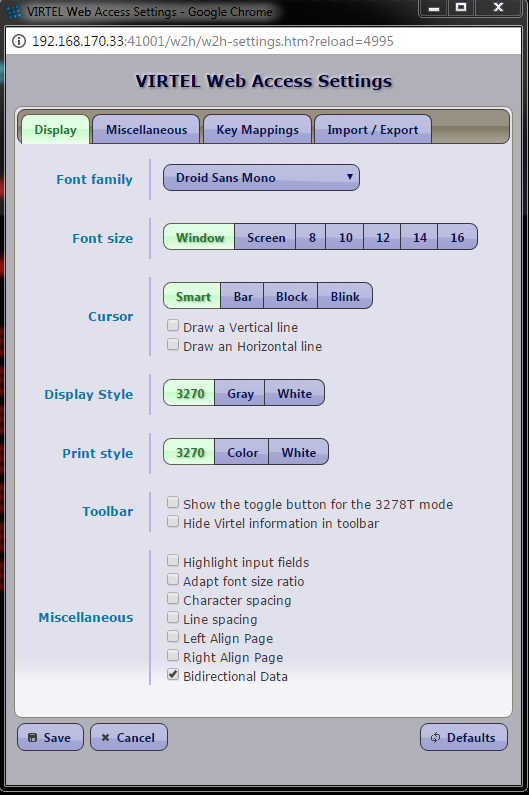
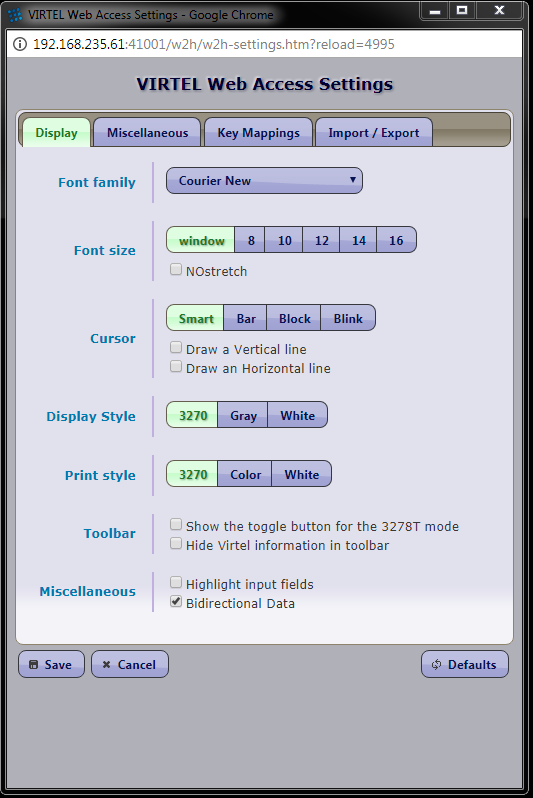
Virtel Documentation Project
Updates

diff --git a/docs/manuals/newsletters/TN201706/TN201706     .rst b/docs/manuals/newsletters/TN201706/TN201706     .rst
@@ -36,15 +36,6 @@ Further details can also be found in the Virtel technical newsletter :ref:`TN201
 Presentation
 ------------
 
-**5447 Option to align W2H page LEFT or CENTER**
-
-New Display Option in the “Miscellaneous” settings page to allow left
-alignment of the W2H page. This may be useful when no monospace font is
-available. Aligning LEFT may give a better appearance to the page as
-compared to the default where each line is centred. When the font is not
-exactly monospace, lines may not have the same length and vertical
-alignments may be lost.
-
 **5453 Add CSS rules for old versions of IE8**
 
 Added CSS rules for older versions of IE where the logo's display codes
@@ -55,40 +46,20 @@ for the new graphics were not displayed with the correct size.
 Help panels can now be customized using the /option/pathToHelp key of
 “option customisation” mode.
 
-**5477 Option to switch R2L or L2R**
-
-A new display option in the miscellaneous settings panel to define how
-text is displayed in the W2H page. The options are “Right to Left” or
-“Left to Right (Default)”.
-
-As an example in Hebrew, locale text support is detected and determined
-by the browser, the browser may try to display lines of text from right
-to left. This may not be what is required. Using this option, the user
-will be able to override the default Locale behaviour and force the
-display of Hebrew from left to right.
-
-**5482 Provide a control to switch "write mode"**
-
-When the 'Bidirectional Data ' option is set, the key combination 'Alt +
-Shift' will switch the writing mode to Between “L2R” and “R2L”:
-
-The indicator '<' will appear on right of the status line. All text
-input (Hebrew or otherwise) will progress from right to left. Tabbing
-into a field will go to the end of the field, not the start. If “R2L”
-input reaches the start of the field, it remains there.
-
-**5481 New “BiDirectional” Option**
+**5481, 5482 New “BiDirectional” Option**
 
 The new BiDirectional option will now trigger the CSS unicodeBidi =
 "bidi-override" style on the Virtel “printReady” HTML Div template. This
 options enables user to have control on how text alignment should be
-set. Right of the page or Left of the Page. This replaces the “Right to
-Left” option of modification 5477.
+set. Right of the page or Left of the Page. 
 
 |image0|
 
 Figure 1 - BiDirectional Data Option
 
+**5490 Disable Long Poll**
+
+To support the i4web AS/400 interface a new option to disable “Long Poll” has been implemented. This can be defined in w2hparm.js or through a setting in the miscellaneous settings panel
 
 **5501 Arabic support - Reverse screen display option.**
 
@@ -109,6 +80,10 @@ Note:-
 ::
  
 	w2hparm.mirrorMode = true
+
+|image3|
+
+Figure 2 - Arabic Support using Right to Left presentation
 
 **5504 continuing="YES" attribute to indicate a split input field**
 
@@ -482,3 +457,4 @@ Bug fixes
 .. |image1| image:: images/media/image2.png
    :width: 6.26806in
    :height: 3.78125in
+.. |image3| image:: images/media/image3.png   

diff --git a/docs/manuals/virtel/Virtel457IG/Installation_Guide.rst b/docs/manuals/virtel/Virtel457IG/Installation_Guide.rst
@@ -1,12 +1,4 @@
-6.2.116. XM1 parameter
-^^^^^^^^^^^^^^^^^^^^^^
-
-::
-
-	XM1=xmname Default=no XM connection
-	XM1=(xmname,,,,[pgmname])
-
-This parameter defines the characteristics of the connection to the cross-memory manager (VIRXM) used by all lines which specify type XM1... _Virtel457IG:
+.. _Virtel457IG:
 
 ========================
 Installation Guide V4.57
